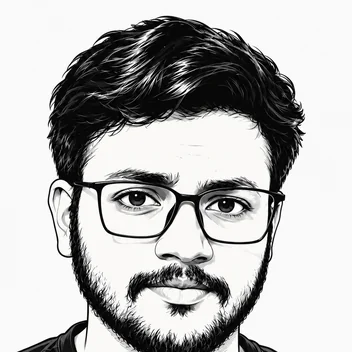
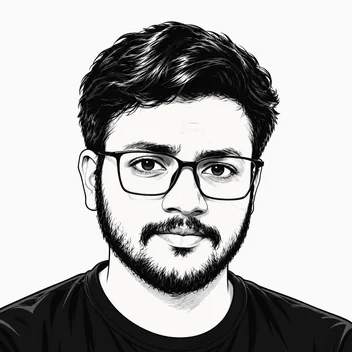
govind.dev scrolls home to the top; zoom the realistic portrait out
On the home page the logo linked to the page already open, which only
ran the page transition (the island flashed see-through) and stayed
put. It now scrolls smoothly to the top. The realistic portrait is
re-cropped wider so the whole head fits.

diff --git a/components/Nav.tsx b/components/Nav.tsx
@@ -144,6 +144,17 @@ export default function Nav() {
         <div className="flex h-[44px] items-center gap-[14px] pl-[18px] pr-[14px]">
           <Link
             href="/"
+            // already home: a link to the same page would only run the page
+            // transition (and flash the island see-through) without moving,
+            // so go back up to the top instead
+            onClick={(e) => {
+              setOpen(false);
+              if (pathname !== "/") return;
+              e.preventDefault();
+              const still = window.matchMedia("(prefers-reduced-motion: reduce)").matches;
+              window.scrollTo({ top: 0, behavior: still ? "auto" : "smooth" });
+              if (window.location.hash) history.replaceState(null, "", "/");
+            }}
             className="group font-mono text-[13.5px] font-medium tracking-[-0.3px] text-ink no-underline"
           >
             govind
